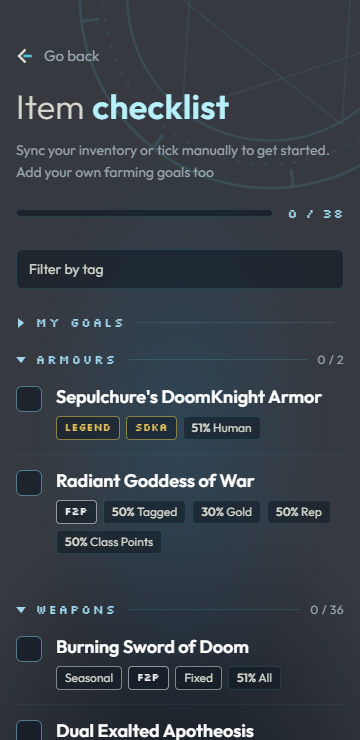
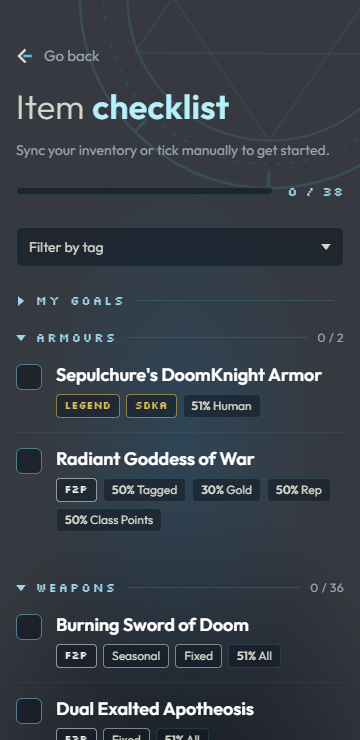
Checklist verify: record OR filter result and after screenshots

diff --git a/docs/ui-reviews/ui-refine-checklist/tasks.md b/docs/ui-reviews/ui-refine-checklist/tasks.md
@@ -47,3 +47,9 @@
 - All seven checks passed at 360, 390, 1099 and 1440px: collapsed filter, goals collapsed, sticky sidebar with Your progress, narrow order, colours, solid bars, corners, no overflow.
 - Paywall gold colour: seven kinds (Legion, Legend, AC, IoDA, SDKA, Heromart, Kickstarter). Heromart and Kickstarter are paywall-linked, so the change text is updated to match the code.
 - Not checked: the goal form and amounts (no goals in the data).
+
+## Verify result (OR filters)
+
+- All seven checks passed at 360, 390, 1099 and 1440px: collapsed filter, goals collapsed, sticky sidebar, narrow order, colours and order, solid bars, corners, no overflow.
+- Filter logic: F2P alone shows 22 of 38; F2P plus Legion shows 30 of 38; an excluded tag hides its items.
+- Not checked: the goal form and amounts (no goals in the data).
